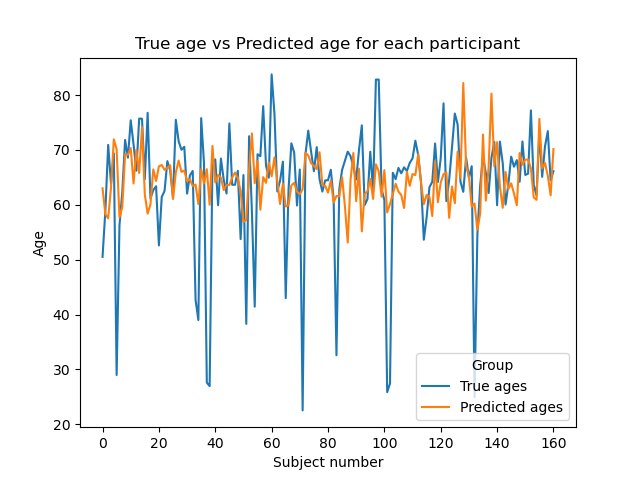
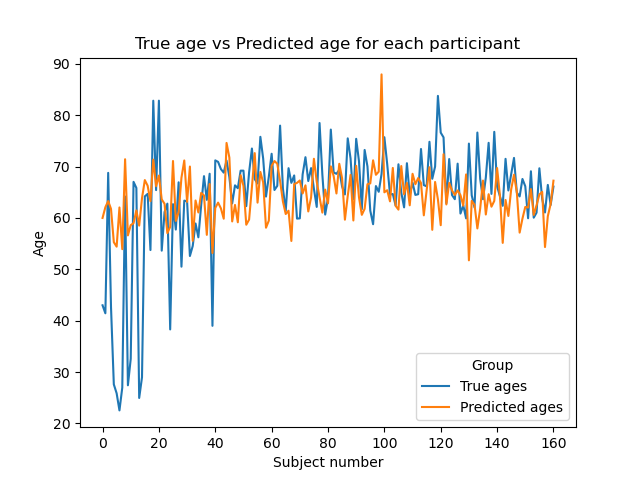
Corrected plots

diff --git a/omega_subjects.py b/omega_subjects.py
@@ -193,8 +193,8 @@ plt.savefig('repartition_subjects_age.png')
 # %% Visualisation of true age vs predicted age
 
 results = pd.read_csv("/storage/store3/work/kachardo/brain-age-benchmark-paper/results/benchmark-filterbank-riemann_dataset-omega_ys.csv", index_col=0)
-plt.plot(results['y_true'], label = 'True ages')
-plt.plot(results['y_pred'], label = 'Predicted ages')
+plt.plot(list(results['y_true']), label = 'True ages')
+plt.plot(list(results['y_pred']), label = 'Predicted ages')
 
 plt.title('True age vs Predicted age for each participant')
 plt.xlabel('Subject number')
